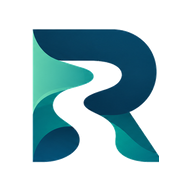
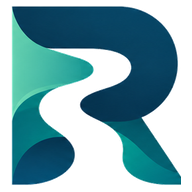
Add files via upload

diff --git a/index.html b/index.html
@@ -10,6 +10,7 @@
 <meta name="apple-mobile-web-app-title" content="RiverLoad">
 <link rel="apple-touch-icon" href="icons/apple-touch-icon.png">
 <link rel="icon" type="image/png" sizes="32x32" href="icons/favicon-32.png">
+<link rel="icon" type="image/png" sizes="48x48" href="icons/favicon-48.png">
 <link rel="icon" type="image/png" sizes="192x192" href="icons/icon-192.png">
 <link rel="icon" type="image/png" sizes="512x512" href="icons/icon-512.png">
 
@@ -1188,6 +1189,14 @@ input.inp-sm::placeholder {
 @media (max-width:1500px) { .rl-brand-sub { display:none; } #rl-save-indicator { max-width:170px; } }
 @media (max-width:1280px) { #rl-save-indicator { max-width:120px; } .rl-tb-inner { gap:8px; } }
 @media (max-width:1100px) { #rl-save-indicator { display:none; } }
+
+/* ══ Logo: tanpa latar putih (PNG transparan) ══ */
+.rl-brand-dot { background:transparent !important; box-shadow:none !important; padding:0 !important; border-radius:0 !important; overflow:visible !important; }
+.rl-brand-dot img { filter:drop-shadow(0 1px 3px rgba(18,58,99,.22)); }
+.loader-logo-wrap { background:transparent !important; box-shadow:none !important; }
+[data-theme="dark"] .rl-brand-dot img,
+[data-theme="dark"] .loader-logo-img,
+[data-theme="dark"] .rl-logo-icon-img { filter:drop-shadow(0 0 1.5px rgba(255,255,255,.95)) drop-shadow(0 0 7px rgba(95,214,230,.35)); }
 </style>
 
 </head>
@@ -2809,6 +2818,67 @@ const WQDB = [
   {no:48, name:'Sampah',                          unit:'-',          k1:'nihil',k2:'nihil',k3:'nihil',k4:'nihil',        ket:null},
   {no:49, name:'Radioaktivitas Gross Alpha / Beta',unit:'Bq/L',      k1:'0.1/1',k2:'0.1/1',k3:'0.1/1',k4:'0.1/1',       ket:null},
 ];
+
+// ── Metode uji tiap parameter (acuan SNI; bila tidak ada SNI dipakai rujukan umum APHA SM / US EPA) ──
+const METODE_UJI = {
+  1:{m:'SNI 06-6989.23-2005 — Suhu, dengan termometer',s:'SNI'},
+  2:{m:'SNI 6989.27:2019 — Padatan terlarut total (TDS), gravimetri',s:'SNI'},
+  3:{m:'SNI 6989.3:2019 — Padatan tersuspensi total (TSS), gravimetri',s:'SNI'},
+  4:{m:'SNI 6989.80:2011 — Warna, spektrofotometri (Pt-Co)',s:'SNI'},
+  5:{m:'SNI 6989.11:2019 — pH, dengan pH meter',s:'SNI'},
+  6:{m:'SNI 6989.72:2009 — BOD (5 hari, 20 °C), titrasi/DO meter',s:'SNI'},
+  7:{m:'SNI 6989.2:2019 — COD, refluks tertutup, spektrofotometri',s:'SNI'},
+  8:{m:'SNI 06-6989.14-2004 — Oksigen terlarut, Winkler (iodometri) / DO meter',s:'SNI'},
+  9:{m:'SNI 6989.20:2019 — Sulfat, turbidimetri',s:'SNI'},
+  10:{m:'SNI 6989.19:2009 — Klorida, titrasi argentometri',s:'SNI'},
+  11:{m:'SNI 6989.79:2011 — Nitrat, spektrofotometri reduksi kadmium',s:'SNI'},
+  12:{m:'SNI 06-6989.9-2004 — Nitrit, spektrofotometri',s:'SNI'},
+  13:{m:'SNI 06-6989.30-2005 — Amonia, spektrofotometri fenat',s:'SNI'},
+  14:{m:'APHA SM 4500-N C — Total nitrogen, oksidasi persulfat (alt.: SM 4500-N org B, Kjeldahl)',s:'Rujukan umum'},
+  15:{m:'SNI 6989.31:2021 — Fosfor total, spektrofotometri asam askorbat',s:'SNI'},
+  16:{m:'SNI 06-6989.29-2005 — Fluorida, spektrofotometri SPADNS',s:'SNI'},
+  17:{m:'SNI 6989.75:2009 — Sulfida (H₂S), metilen biru',s:'SNI'},
+  18:{m:'SNI 6989.77:2011 — Sianida, spektrofotometri',s:'SNI'},
+  19:{m:'APHA SM 4500-Cl G — Klorin bebas, kolorimetri DPD',s:'Rujukan umum'},
+  20:{m:'APHA SM 3120 B / US EPA 200.7 — Barium, ICP-OES',s:'Rujukan umum'},
+  21:{m:'APHA SM 4500-B C (kurkumin) / SM 3120 B — Boron, ICP-OES',s:'Rujukan umum'},
+  22:{m:'SNI 6989.78:2011 — Merkuri, CV-AAS (uap dingin)',s:'SNI'},
+  23:{m:'SNI 6989.83:2011 — Arsen, AAS-hidrida (alt.: APHA SM 3114 B)',s:'SNI'},
+  24:{m:'APHA SM 3114 B / SM 3120 B — Selenium, AAS-hidrida / ICP-OES',s:'Rujukan umum'},
+  25:{m:'SNI 6989.4:2009 — Besi, AAS nyala',s:'SNI'},
+  26:{m:'SNI 6989.16:2009 — Kadmium, AAS nyala',s:'SNI'},
+  27:{m:'SNI 6989.68:2009 — Kobalt, AAS nyala',s:'SNI'},
+  28:{m:'SNI 6989.5:2009 — Mangan, AAS nyala',s:'SNI'},
+  29:{m:'SNI 6989.18:2009 — Nikel, AAS nyala',s:'SNI'},
+  30:{m:'SNI 6989.7:2009 — Seng, AAS nyala',s:'SNI'},
+  31:{m:'SNI 6989.6:2009 — Tembaga, AAS nyala',s:'SNI'},
+  32:{m:'SNI 6989.8:2009 — Timbal, AAS nyala',s:'SNI'},
+  33:{m:'SNI 6989.71:2009 — Kromium heksavalen (Cr⁶⁺), spektrofotometri difenilkarbazida',s:'SNI'},
+  34:{m:'SNI 6989.10:2011 — Minyak dan lemak, gravimetri (ekstraksi n-heksana)',s:'SNI'},
+  35:{m:'SNI 06-6989.51-2005 — Surfaktan anionik (MBAS), spektrofotometri',s:'SNI'},
+  36:{m:'SNI 06-6989.21-2004 — Fenol, spektrofotometri',s:'SNI'},
+  37:{m:'US EPA 8081B / APHA SM 6630 B — Pestisida organoklorin, GC-ECD',s:'Rujukan umum'},
+  38:{m:'US EPA 8081B / APHA SM 6630 B — Pestisida organoklorin, GC-ECD',s:'Rujukan umum'},
+  39:{m:'US EPA 8081B / APHA SM 6630 B — Pestisida organoklorin, GC-ECD',s:'Rujukan umum'},
+  40:{m:'US EPA 8081B / APHA SM 6630 B — Pestisida organoklorin, GC-ECD',s:'Rujukan umum'},
+  41:{m:'US EPA 8081B / APHA SM 6630 B — Pestisida organoklorin, GC-ECD',s:'Rujukan umum'},
+  42:{m:'US EPA 8081B / APHA SM 6630 B — Pestisida organoklorin, GC-ECD',s:'Rujukan umum'},
+  43:{m:'US EPA 8081B / APHA SM 6630 B — Pestisida organoklorin, GC-ECD',s:'Rujukan umum'},
+  44:{m:'US EPA 8081B / APHA SM 6630 B — Pestisida organoklorin, GC-ECD',s:'Rujukan umum'},
+  45:{m:'US EPA 8081B / APHA SM 6630 B — Pestisida organoklorin, GC-ECD',s:'Rujukan umum'},
+  46:{m:'APHA SM 9221 E — Fecal coliform, MPN tabung ganda (SNI 06-4158-1996)',s:'Rujukan umum'},
+  47:{m:'APHA SM 9221 B — Total coliform, MPN tabung ganda (SNI 06-4158-1996)',s:'Rujukan umum'},
+  48:{m:'Pengamatan visual di lapangan (tidak ada SNI)',s:'Rujukan umum'},
+  49:{m:'APHA SM 7110 B — Gross alpha/beta, kopresipitasi / pencacah proporsional',s:'Rujukan umum'}
+};
+function metodeUjiByNo(no){ return METODE_UJI[no] || null; }
+function metodeUjiByName(name){
+  if(!name) return null;
+  const n = String(name).toLowerCase().replace(/\s+/g,' ').trim();
+  const row = WQDB.find(r => r.name.toLowerCase() === n) ||
+              WQDB.find(r => { const a=r.name.toLowerCase(); return a.includes(n) || n.includes(a); });
+  return row ? (METODE_UJI[row.no] || null) : null;
+}
 
 function getKVal(row, cls) {
   return row['k'+cls];
@@ -8382,7 +8452,7 @@ async function exportExcel(){
   // SHEET 7 — DATABASE PARAMETER (PP 22/2021)
   // ═══════════════════════════════════════════════════════
   if(params.length){
-    const NC=8;
+    const NC=9;
     const kColors=[C.blu2,C.teal2,C.amb2,C.redMd];
     const kBgs   =[C.bluBg,C.tealBg,C.ambBg,C.redBg];
     const kHdr=(i)=>({font:font(true,10,kColors[i]),fill:fill(kBgs[i]),alignment:align('center','center',true),border:bdrT(kColors[i])});
@@ -8391,7 +8461,7 @@ async function exportExcel(){
       [mkCell('DATABASE PARAMETER  ·  PP NO. 22 TAHUN 2021 LAMPIRAN VI',S.banner),...Array(NC-1).fill(null)],
       [mkCell('Parameter digunakan dalam analisis   ·   Kelas Sungai: '+clsRom,S.meta),...Array(NC-1).fill(null)],
       Array(NC).fill(blank({...S.dat,fill:fill(C.slateL)})),
-      [mkCell('No',S.hdr),mkCell('Parameter',S.hdr),mkCell('Satuan',S.hdr),mkCell('BM Kelas '+clsRom,S.hdr),mkCell('Kelas I',kHdr(0)),mkCell('Kelas II',kHdr(1)),mkCell('Kelas III',kHdr(2)),mkCell('Kelas IV',kHdr(3))],
+      [mkCell('No',S.hdr),mkCell('Parameter',S.hdr),mkCell('Satuan',S.hdr),mkCell('BM Kelas '+clsRom,S.hdr),mkCell('Kelas I',kHdr(0)),mkCell('Kelas II',kHdr(1)),mkCell('Kelas III',kHdr(2)),mkCell('Kelas IV',kHdr(3)),mkCell('Metode Uji (SNI / Rujukan Umum)',S.hdr)],
     ];
     const rh=[RH.banner,RH.meta,RH.gap,RH.hdr];
     params.forEach((p,i)=>{
@@ -8406,11 +8476,18 @@ async function exportExcel(){
         mkCell(k2,{...baseC,font:font(false,10,C.teal2),fill:fill(alt?C.tealBg2:C.tealBg2),border:bdr(C.teal3)}),
         mkCell(k3,{...baseC,font:font(false,10,C.amb2),fill:fill(alt?C.ambBg2:C.ambBg2),border:bdr(C.amb3)}),
         mkCell(k4,{...baseC,font:font(false,10,C.redMd),fill:fill(alt?C.redBg:C.redBg),border:bdr(C.redMd)}),
+        mkCell((metodeUjiByNo(p.no)||{}).m || '—',{...base,alignment:align('left','center',true)}),
       ]);
-      rh.push(RH.data);
+      rh.push(30);
     });
     const merges=[{s:{r:0,c:0},e:{r:0,c:NC-1}},{s:{r:1,c:0},e:{r:1,c:NC-1}},{s:{r:2,c:0},e:{r:2,c:NC-1}}];
-    addSheet(WB,'🗂 Database Parameter',aoa,[4,16,7,9,9,9,9,9],merges,rh);
+    aoa.push(Array(NC).fill(blank({...S.dat,fill:fill(C.slateL)})));
+    rh.push(6);
+    const noteR = aoa.length;
+    aoa.push([mkCell('Catatan: metode uji di atas adalah acuan umum (SNI bila tersedia; bila tidak ada SNI dipakai rujukan APHA Standard Methods / US EPA). Sesuaikan dengan ruang lingkup akreditasi laboratorium (KAN/ISO 17025) dan versi SNI terbaru.',{...S.meta,alignment:align('left','center',true)}),...Array(NC-1).fill(null)]);
+    rh.push(30);
+    merges.push({s:{r:noteR,c:0},e:{r:noteR,c:NC-1}});
+    addSheet(WB,'🗂 Database Parameter',aoa,[4,26,9,9,9,9,9,9,52],merges,rh);
   }
 
   // ═══════════════════════════════════════════════════════
@@ -8469,6 +8546,8 @@ async function exportExcel(){
         hdr(['Uraian','Nilai','','Satuan','Keterangan']);
         add([L('Parameter'),mkCell(pname,sty.lblB),E(),U(row.unit||''),N('')]);
         add([L('Baku mutu sungai (BM)'),nCell(num(row.bm),sty.inp,FM.n4),E(),U(row.unit||''),N('Kelas '+clsRom+' — PP 22/2021')]);
+        const mu = metodeUjiByName(pname) || metodeUjiByName(row.name);
+        if (mu) { const rMu = add([L('Metode uji (SNI / rujukan umum)'),mkCell(mu.m,sty.note),E(),U(''),N(mu.s==='SNI'?'SNI':'Rujukan umum (non-SNI)')],30); merges.push({s:{r:rMu-1,c:1},e:{r:rMu-1,c:3}}); }
         const sumRow = add([L('Jenis kompensasi'),mkCell('Lampiran '+row.lamp+' — '+(jn?jn.nama:''),sty.lblB),E(),U(''),N('')]);
         merges.push({s:{r:sumRow-1,c:1},e:{r:sumRow-1,c:2}});
 

diff --git a/sw.js b/sw.js
@@ -1,5 +1,5 @@
-const CACHE='riverload-v2';
-const SHELL=['./','./index.html','./manifest.webmanifest','./icons/icon-192.png','./icons/icon-512.png','./icons/icon-maskable-512.png','./icons/apple-touch-icon.png','./icons/favicon-32.png'];
+const CACHE='riverload-v3';
+const SHELL=['./','./index.html','./manifest.webmanifest','./icons/icon-192.png','./icons/icon-512.png','./icons/apple-touch-icon.png','./icons/favicon-32.png'];
 self.addEventListener('install',e=>{e.waitUntil(caches.open(CACHE).then(c=>c.addAll(SHELL).catch(()=>{})).then(()=>self.skipWaiting()));});
 self.addEventListener('activate',e=>{e.waitUntil(caches.keys().then(k=>Promise.all(k.filter(x=>x!==CACHE).map(x=>caches.delete(x)))).then(()=>self.clients.claim()));});
 self.addEventListener('fetch',e=>{
